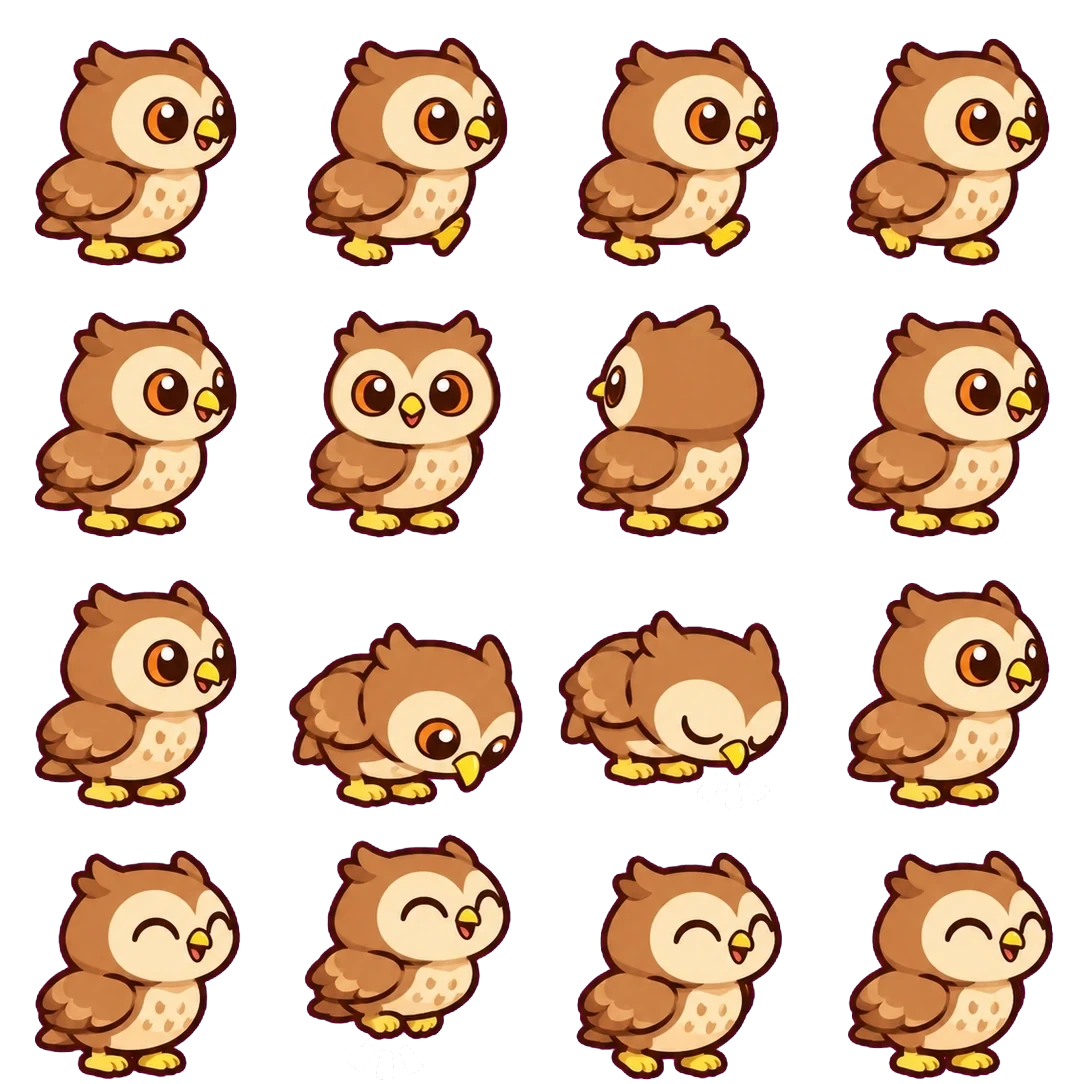
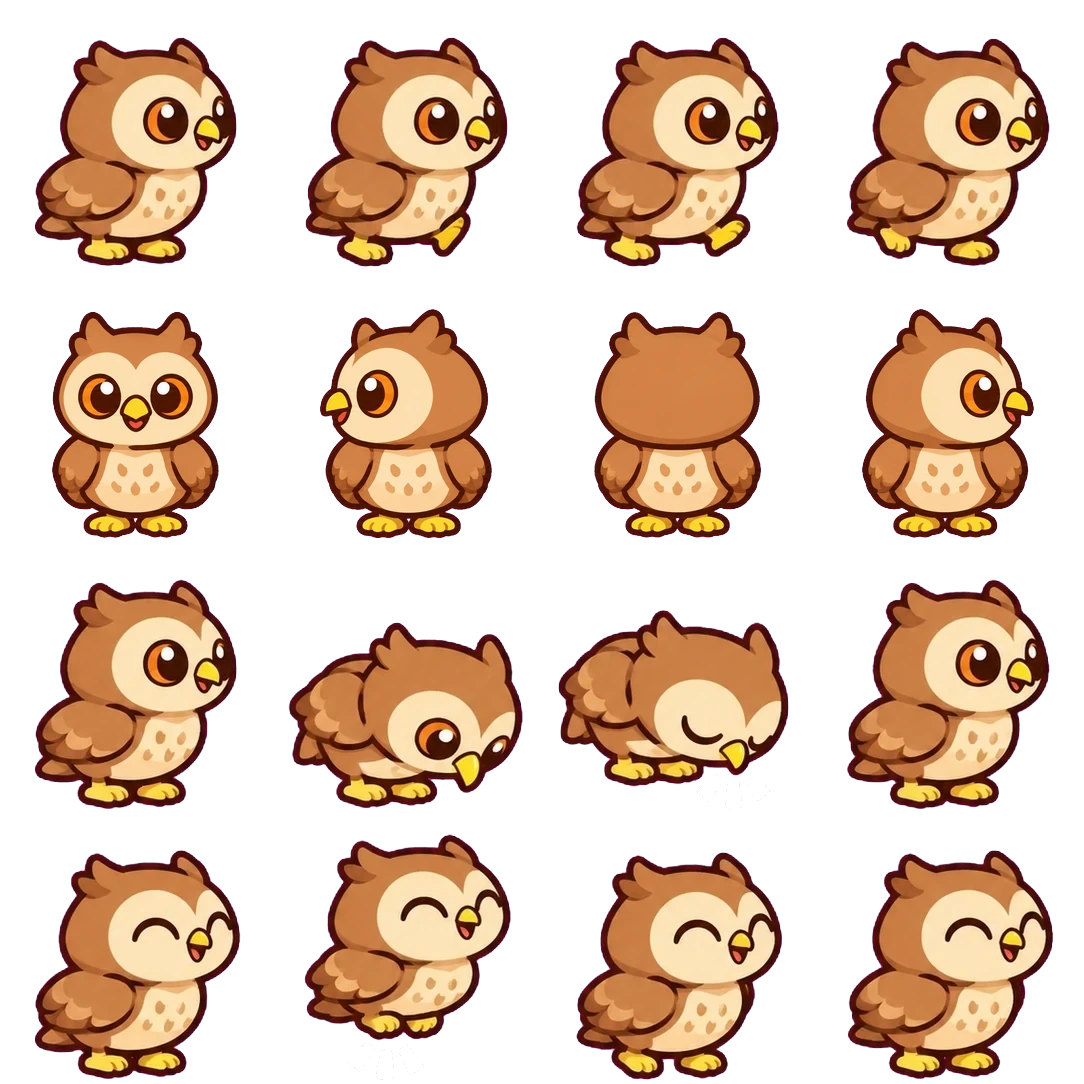
Pet panel opens on the first tap (touch-down + tile pictures prepared in the background); no Pet it / Own action buttons; 9 per row; tiles show just the animal, sized by how big it is; owls' action: stand facing front and turn the head 270 degrees
Claude-Session: https://claude.ai/code/session_01WYXHXwKxHQowMAYmWZLpUL

diff --git a/index.html b/index.html
@@ -140,14 +140,14 @@
   .petChip.on::after{content:'✕';position:absolute;top:-6px;right:-6px;width:18px;height:18px;border-radius:9px;background:#e8483f;color:#fff;font:700 11px/18px system-ui;text-align:center}
   #petPanel.petPanel{width:auto;max-width:calc(var(--aw) - 24px);max-height:none;overflow:visible;padding:8px 10px 10px}
   .petTop{display:flex;align-items:baseline;gap:8px;margin:0 40px 6px 2px;font:700 14px 'Mali',system-ui,sans-serif;color:#3b2a1a}.petTop span{font-size:12px;font-weight:600;color:#7a5a3a}
-  .petGrid{display:grid;grid-template-columns:repeat(10,40px);gap:4px}
-  .narrow .petGrid{grid-template-columns:repeat(8,38px)}.narrow .petTile{width:38px;height:38px}
-  .petTile{position:relative;width:40px;height:40px;border-radius:10px;background:#fff3d6;border:2px solid #f0d9a8;box-sizing:border-box;touch-action:none;cursor:grab;display:flex;align-items:center;justify-content:center}
-  .petTile canvas{width:100%;height:100%;pointer-events:none}.petTile.on{background:#ffd84a;border-color:#e0a91c}.petTile.sel{outline:2px solid #e8483f;outline-offset:1px}
+  .petGrid{display:grid;grid-template-columns:repeat(9,44px);gap:3px 4px}
+  .narrow .petGrid{grid-template-columns:repeat(9,40px)}.narrow .petTile{width:40px;height:40px}
+  .petTile{position:relative;width:44px;height:44px;border-radius:50%;background:transparent;border:0;box-sizing:border-box;align-items:flex-end!important;touch-action:none;cursor:grab;display:flex;align-items:center;justify-content:center}
+  .petTile canvas{width:100%;height:100%;pointer-events:none;object-fit:contain}.petTile.on{background:radial-gradient(circle,#ffe58a 0,#ffd84a 55%,rgba(255,216,74,0) 72%)}.petTile.sel{outline:2px solid #e8483f;outline-offset:1px}
   .petOut{position:absolute;top:-7px;right:-7px;width:18px;height:18px;border:0;border-radius:9px;background:#e8483f;color:#fff;font:700 10px/18px system-ui;padding:0;cursor:pointer}
   .petInfo{display:flex;align-items:center;gap:3px;min-height:22px;margin:7px 2px 4px;font:600 12px 'Mali',system-ui,sans-serif;color:#6b4a2b}.petInfo canvas{width:20px;height:20px}
   .petDo{display:flex;gap:6px}.petDo button{flex:1;border:2px solid #f0d9a8;border-radius:12px;background:#fff3d6;font:700 13px 'Mali',system-ui,sans-serif;color:#3b2a1a;padding:6px 8px;cursor:pointer}
-  .petTile::before{content:'';position:absolute;left:3px;bottom:3px;width:7px;height:7px;border-radius:50%;background:var(--tc)}
+  .petTile::before{content:'';position:absolute;left:1px;bottom:1px;width:6px;height:6px;border-radius:50%;background:var(--tc)}
   .tier-common{--tc:#5aa84f}.tier-rare{--tc:#3b8fe0}.tier-ultra{--tc:#9a5ad8}.tier-secret{--tc:#e0483f}
   .tierTag{background:var(--tc);color:#fff;border-radius:8px;padding:1px 7px;margin-right:6px;font-size:11px}
   .petTile.loading{cursor:progress}.tileSpin{display:block;width:20px;height:20px;border-radius:50%;border:3px solid #f0d9a8;border-top-color:#ff9f1c;animation:tileSpin .8s linear infinite}
@@ -353,7 +353,7 @@
 <script>
 // ---- UI icon set (ui_icons.webp, 18 cells in one row) — emoji are shown until it loads ----
 // bump ASSET_V whenever an icon/emote picture changes, so phones download the new one instead of a cached copy
-var ASSET_V='20261121d';
+var ASSET_V='20261121e';
 const IC_N=['logo','pad','freeze','hide','zombie','fire','flash','run','shirt','gear','globe','trophy','girl','boy','jump','tag','logout','hello'];
 const IC={},IC_C={};
 function icFrom(img,i,name){const n=img.height,c=document.createElement('canvas');c.width=c.height=n;c.getContext('2d').drawImage(img,i*n,0,n,n,0,0,n,n);IC_C[name]=c;IC[name]=c.toDataURL();}
@@ -1149,7 +1149,8 @@ $('mgAddBot').onclick=()=>{const left=NPCS.filter(n=>!MG.bots.includes(n));if(le
 $('mgAllBots').onclick=()=>{MG.bots=[...NPCS];mgList();};
 $('mgNoBots').onclick=()=>{MG.bots=[];mgList();};
 function mgClose(){MG.joinTimers.forEach(clearTimeout);mgPanel.style.display='none';}
-$('petBtn').addEventListener('click',e=>{e.stopPropagation();const b=$('petPanel');if(b.style.display==='none'){buildPetPanel();b.style.display='block';}else b.style.display='none';});
+$('petBtn').addEventListener('pointerdown',e=>{e.preventDefault();e.stopPropagation();const b=$('petPanel');if(b.style.display==='none'){buildPetPanel();b.style.display='block';}else b.style.display='none';});
+$('petBtn').addEventListener('click',e=>e.stopPropagation());
 ['pointerdown','touchstart','mousedown','click'].forEach(t=>$('petPanel').addEventListener(t,e=>e.stopPropagation(),{passive:true}));
 $('mgBtn').onclick=mgOpen;$('mgClose').onclick=()=>{if(MG.phase==='end')mgFinish();mgClose();};$('mgCancel').onclick=()=>{if(!MG.on){if(MG.online&&MG.isHost){NET.g=null;MG.online=false;MG.isHost=false;}if(NET.j){NET.j=null;NET.host=null;}NET.sendT=0;$('mgStart').style.display='';$('mgCancel').textContent='Cancel';}mgClose();};$('mgStart').onclick=mgStart;
 $('mgAgain').onclick=()=>{mgFinish();mgOpen();mgLobby(MG.mode);};$('mgDone').onclick=()=>{mgFinish();mgClose();};
@@ -2017,11 +2018,18 @@ const TIER_OF={};for(const t in PET_TIERS)PET_TIERS[t].forEach(id=>TIER_OF[id]=t
 const TIER_NAME={common:'Common',rare:'Rare',ultra:'Ultra Rare',secret:'Secret'};
 let PET_INFO_ID=null;
 addEventListener('petloaded',e=>{const box=$('petPanel');if(box&&box.style.display!=='none'&&box.querySelector('.petTile.loading'))buildPetPanel();});
+const TILE_PIC={};
+function tileSize(id){const v=PET_DEFS[id].h,lo=55,hi=150;return 0.62+0.38*Math.sqrt(Math.max(0,Math.min(1,(v-lo)/(hi-lo))));}   // 0.62 (tiny pets) .. 1.0 (alpaca)
+function tilePic(id){if(TILE_PIC[id])return TILE_PIC[id];if(!petImg(id))return null;const c=petStill(id,24);const k=tileSize(id);c.style.width=c.style.height=(k*100)+'%';return TILE_PIC[id]=c;}
+// get each tile picture ready as soon as its pet has loaded (one at a time, in quiet moments), so the panel opens at once
+const TILE_TODO=[];let tileBusy=false;
+function warmTiles(){if(tileBusy)return;tileBusy=true;const step=()=>{const id=TILE_TODO.shift();if(!id){tileBusy=false;return;}tilePic(id);(window.requestIdleCallback||setTimeout)(step,{timeout:200});};(window.requestIdleCallback||setTimeout)(step,{timeout:200});}
+addEventListener('petloaded',e=>{TILE_TODO.push(e.detail);warmTiles();});
 function buildPetPanel(){const box=$('petPanel');box.innerHTML='';
   const top=document.createElement('div');top.className='petTop';top.innerHTML=`<b>Pets</b><span>Drag onto the lawn · ${PETS.length} out</span>`;box.appendChild(top);
   const grid=document.createElement('div');grid.className='petGrid';box.appendChild(grid);
   Object.keys(PET_DEFS).filter(id=>PETS_IMG[id]!==false||PETS.some(p=>p.id===id)).forEach(id=>{const t=document.createElement('div');const out=PETS.some(p=>p.id===id);t.className='petTile tier-'+(TIER_OF[id]||'common')+(out?' on':'')+(PET_INFO_ID===id?' sel':'');t.title=PET_DEFS[id].name;
-    if(petImg(id))t.appendChild(petStill(id,22));else{t.classList.add('loading');t.innerHTML='<i class="tileSpin"></i>';}petDragSetup(t,id);
+    const pic=tilePic(id);if(pic)t.appendChild(pic);else{t.classList.add('loading');t.innerHTML='<i class="tileSpin"></i>';}petDragSetup(t,id);
     if(out){const x=document.createElement('button');x.className='petOut';x.textContent='✕';x.setAttribute('aria-label','Send home');
       x.addEventListener('pointerdown',e=>{e.preventDefault();e.stopPropagation();sendPetHome(id);if(PET_INFO_ID===id)PET_INFO_ID=null;buildPetPanel();});t.appendChild(x);}
     grid.appendChild(t);});
@@ -2029,8 +2037,6 @@ function buildPetPanel(){const box=$('petPanel');box.innerHTML='';
   if(PET_INFO_ID){const id=PET_INFO_ID,hg=Math.round(hungerOf(id)),tr=TIER_OF[id]||'common';const tg=document.createElement('b');tg.className='tierTag tier-'+tr;tg.textContent=TIER_NAME[tr];info.appendChild(tg);info.append(PET_DEFS[id].name+' likes ');likedFoods(id).forEach(f=>info.appendChild(iconCanvas(f.id,20)));
     const t=document.createElement('span');t.style.cssText='margin-left:6px;font-weight:700;color:'+(hg>66?'#d0342c':hg>33?'#c98a00':'#3a9a3a');t.textContent=hg>66?'Hungry':hg>33?'A bit hungry':'Full';info.appendChild(t);}
   else info.textContent='Tap a pet to see what it likes to eat.';
-  const row=document.createElement('div');row.className='petDo';box.appendChild(row);
-  [['love','❤ Pet it'],['special','💤 Own action']].forEach(([v,l])=>{const b=document.createElement('button');b.textContent=l;b.onclick=e=>{e.stopPropagation();petAction(v);};row.appendChild(b);});
   const x=document.createElement('button');x.className='petX';x.innerHTML='✕';x.onclick=e=>{e.stopPropagation();box.style.display='none';};box.prepend(x);applyIcons(box);}
 {const c=$('btnClean').querySelector('canvas'),g=c.getContext('2d'),p=()=>{g.clearRect(0,0,72,72);cleanIcon(g,1,36,36,70,0);};p();CLEAN_IMG.addEventListener('load',p);}
 $('btnClean').addEventListener('pointerdown',e=>{e.preventDefault();e.stopPropagation();foodPanel.style.display='none';startClean();});
